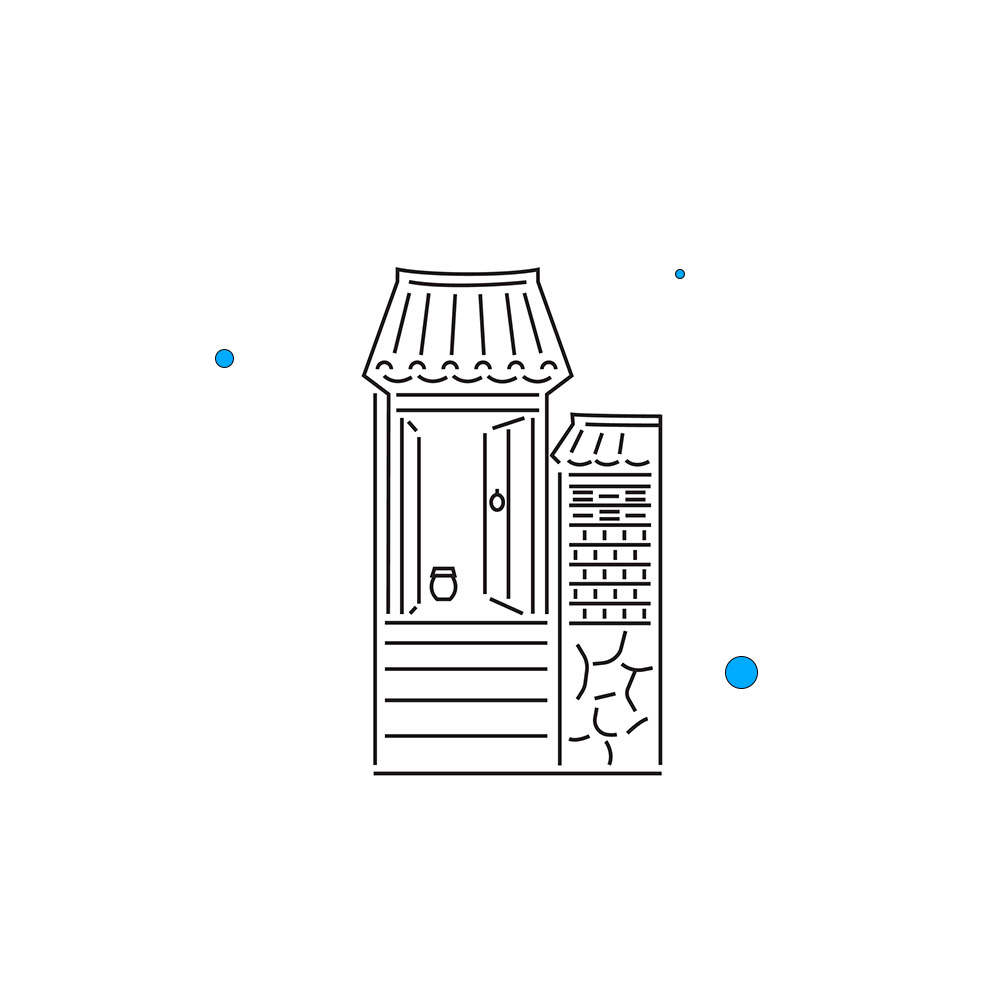
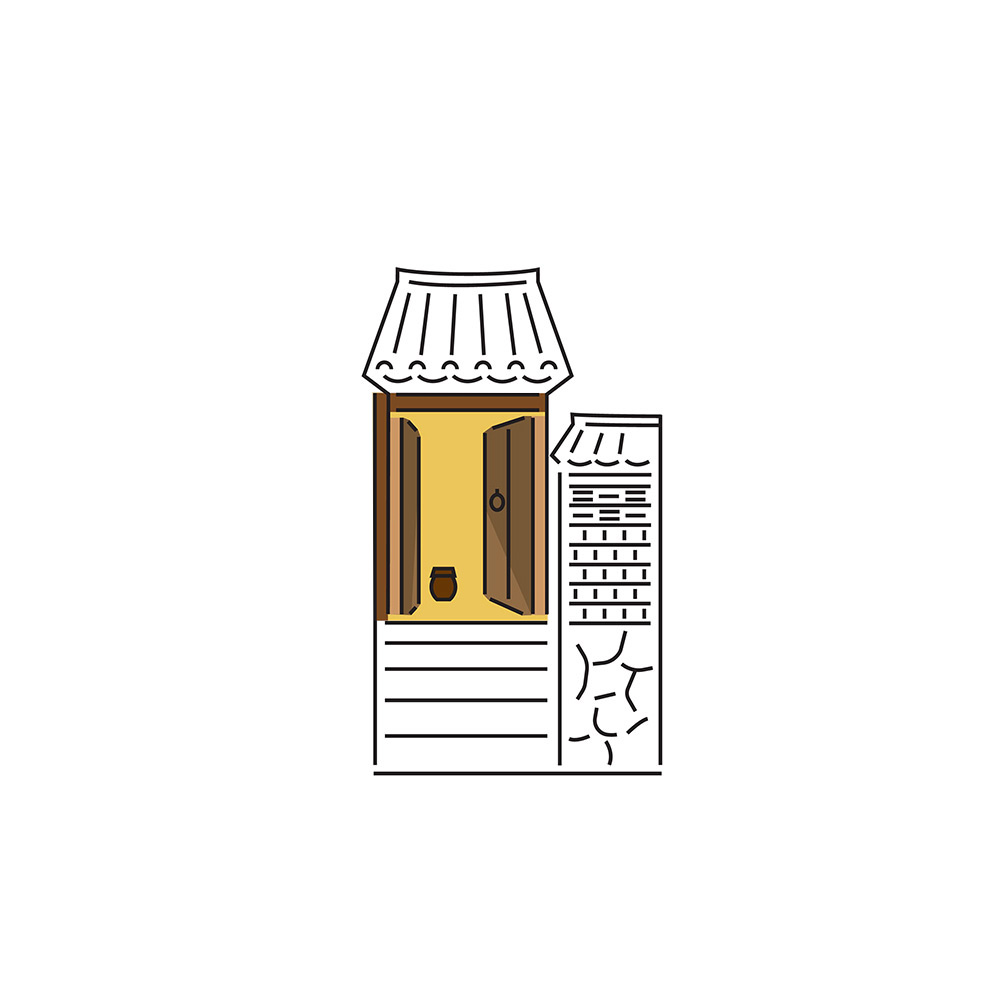
update

Changed region(s): [[0.372, 0.372, 0.558, 0.62], [0.713, 0.651, 0.775, 0.682], [0.217, 0.341, 0.248, 0.372]]

diff --git a/index.html b/index.html
@@ -173,7 +173,7 @@
 		<imagetarget id='09' src='targets/9_색실문양누비공방.jpg'></imagetarget>
 		<imagetarget id='10' src='targets/10_서촌라운지 1.jpg'></imagetarget>
 		<imagetarget id='11' src='targets/포차코01.jpg'></imagetarget>
-		<imagetarget id='12' src='targets/12_전통발효공방_02 1.jpg'></imagetarget>
+		<imagetarget id='12' src='targets/12_전통발효공방_02.jpg'></imagetarget>
 		<imagetarget id='13' src='targets/13_전통홍염공방 1.jpg'></imagetarget>
 		<imagetarget id='14' src='targets/14_직물놀이공방 1.jpg'></imagetarget>
 		<imagetarget id='15' src='targets/15_홍건익가옥 1.jpg'></imagetarget>